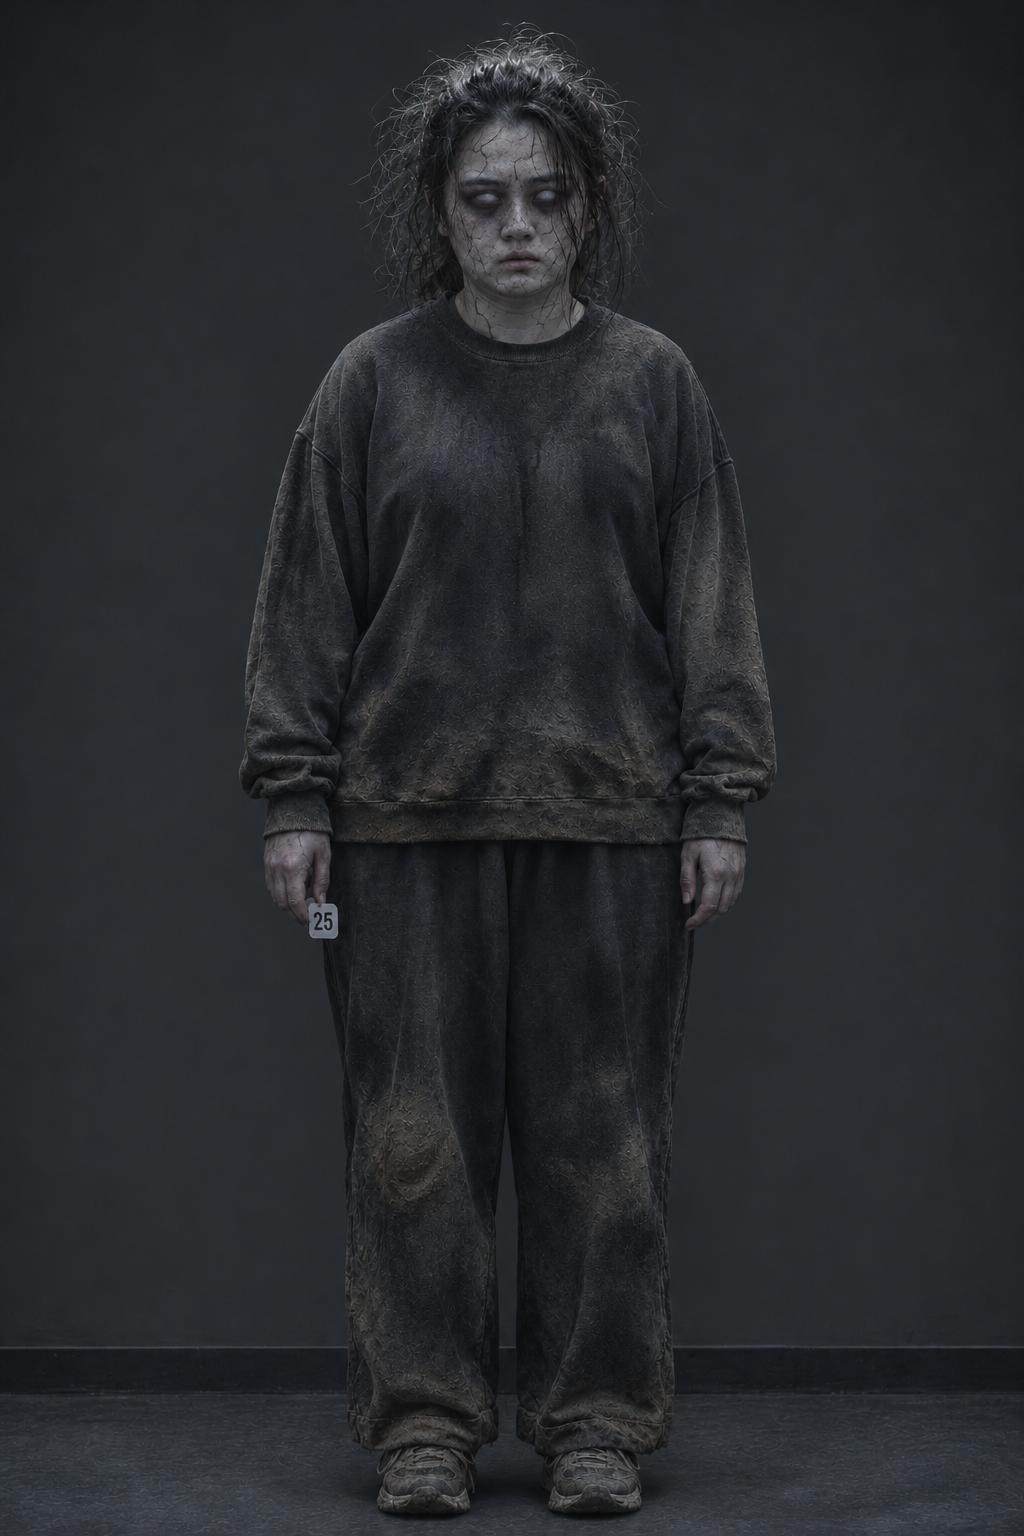
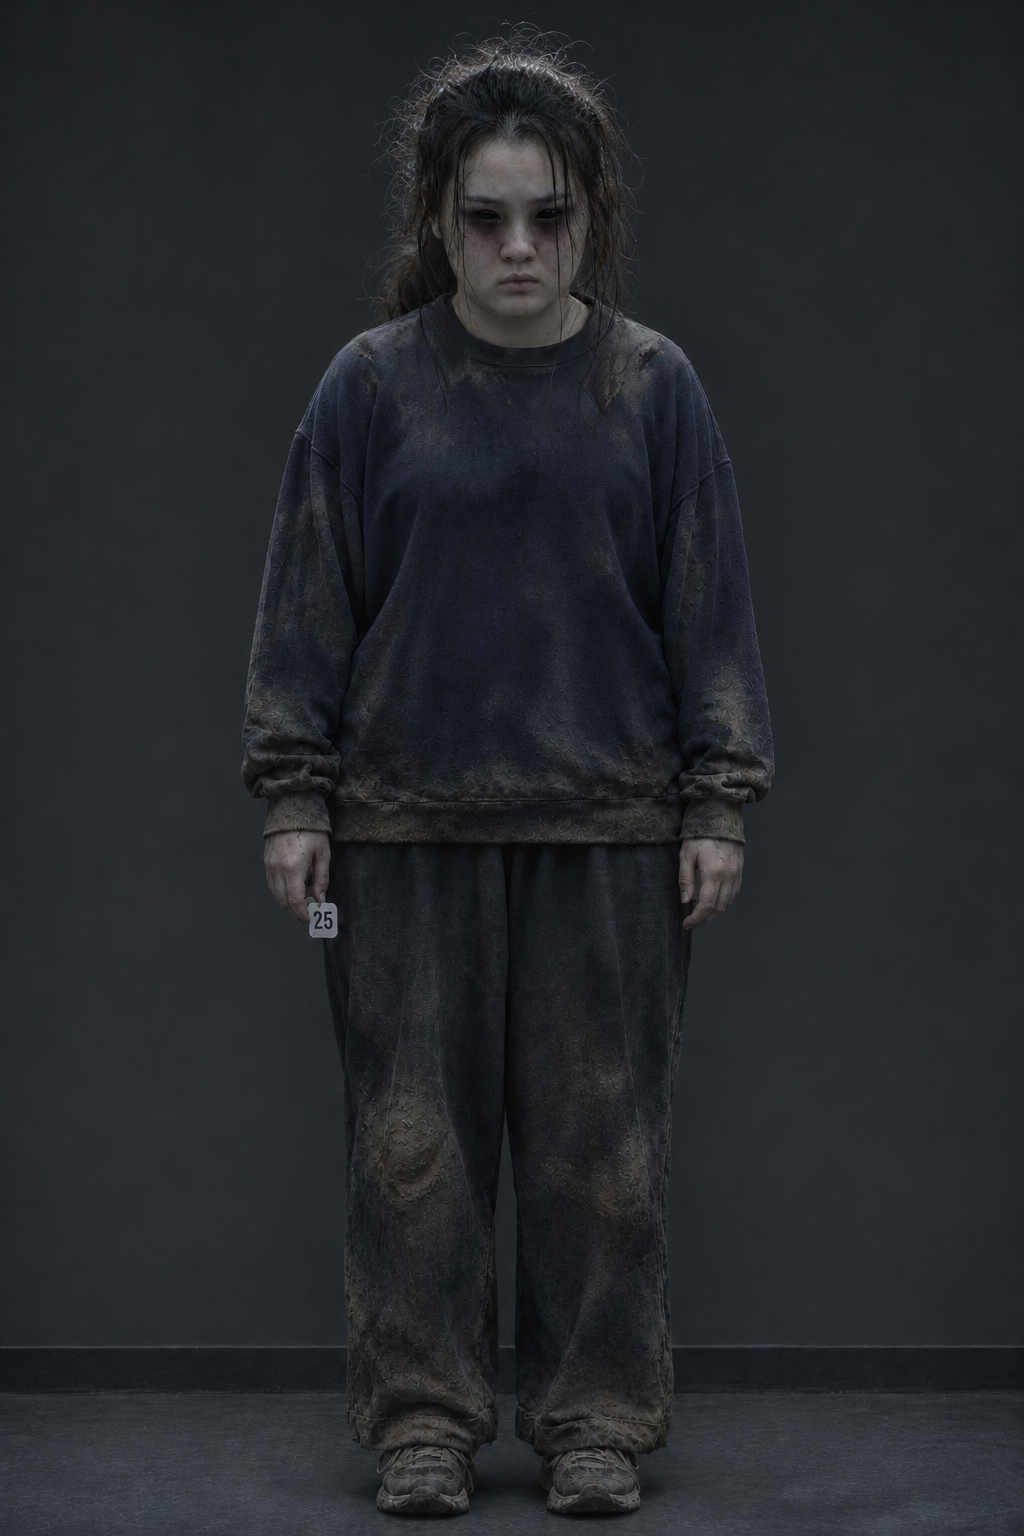
規格／影片素材：等號者三人幽靈全身改為黑眼無裂紋定稿
全身臉部比照新頭像改成全黑眼球、眼眶發黑、淡血管、亂髮，拿掉臉部裂紋；姿勢、號牌與髒汙衣著不變（三人皆選 02，微低頭往上盯）。

diff --git a/docs/10_製作規格/10-23_製作規格_影片素材設定.md b/docs/10_製作規格/10-23_製作規格_影片素材設定.md
@@ -143,7 +143,7 @@
 - **素材提示詞：**大廳塑膠等候椅上的三個年輕人（兩女一男，約十九到二十六歲），高矮胖瘦各不相同，穿的是自己平常的便服，像日常途中突然被帶進園區：左邊的女生是灰色針織開襟衫、白 T、淺色寬牛仔褲；中間的男生是暗紅帽 T、側邊白條紋的灰運動褲；右邊的女生是深藍大學 T、黑色寬褲。衣服乾淨但有一天下來的皺褶，色調低飽和。每人手裡都有一張塑膠號牌。第一人坐得最直；第二人縮肩、抿著嘴，嘴角被迫往兩側提起；第三人望著封住的出口，一手把號牌壓在膝上、一手扣住椅緣。異變只在頸部：衣領裡有一道細長的折角，頸影比肩膀多折一節，慢半拍才接回頭影。臉都沒有清楚五官（低垂、背光或模糊）。
 - **不要出現：**腐爛、傷口或血跡；三人長得一樣或穿同一套衣服；制服、戲服或破舊二手衣
 - **內部視覺基準：**[三人合照](../../assets/07_視聽與介面/assets/角色設定_等號者_合照_v1.png)是三人並坐、號牌與姿態的基準；左、中、右三人各有[左正面頭像](../../assets/07_視聽與介面/assets/角色設定_等號者_左_頭像_v1.png)與[左正面全身](../../assets/07_視聽與介面/assets/角色設定_等號者_左_全身_v1.png)、[中正面頭像](../../assets/07_視聽與介面/assets/角色設定_等號者_中_頭像_v1.png)與[中正面全身](../../assets/07_視聽與介面/assets/角色設定_等號者_中_全身_v1.png)、[右正面頭像](../../assets/07_視聽與介面/assets/角色設定_等號者_右_頭像_v1.png)與[右正面全身](../../assets/07_視聽與介面/assets/角色設定_等號者_右_全身_v1.png)，作為臉部與服裝基準。七張都是未異變的正常人形，只供內部對臉與定裝，不進遊戲畫面；遊戲內仍照本段不交清楚五官，頸部異變另依來源段製作。
-- **幽靈版內部視覺基準：**[左幽靈全身](../../assets/07_視聽與介面/assets/角色設定_等號者_左_幽靈_v1.png)與[左幽靈頭像](../../assets/07_視聽與介面/assets/角色設定_等號者_左_幽靈頭像_v1.png)、[中幽靈全身](../../assets/07_視聽與介面/assets/角色設定_等號者_中_幽靈_v1.png)與[中幽靈頭像](../../assets/07_視聽與介面/assets/角色設定_等號者_中_幽靈頭像_v1.png)、[右幽靈全身](../../assets/07_視聽與介面/assets/角色設定_等號者_右_幽靈_v1.png)與[右幽靈頭像](../../assets/07_視聽與介面/assets/角色設定_等號者_右_幽靈頭像_v1.png)以三人正面全身定裝為底，人、衣著與 28／27／25 號牌不變；全身是怨靈外觀的姿態、衣著髒汙與臉部碎裂基準，頭像是眼眶發黑、亂髮、衣著髒汙與皮膚質地的臉部細節基準；頭像版雙眼整顆全黑、沒有眼白，臉上不帶裂紋，黑色血管比全身更淡，全身仍維持下面的白眼與裂紋。膚色灰白偏青、衣色褪淡；臉上沒有表情，只剩空洞的死盯；雙眼全白、沒有瞳孔也不發光，眼眶周圍大片發黑、凹陷，黑紫色一路暈到顴骨與眉骨；黑色血管只在太陽穴、脖子與手背淡淡浮現，不搶眼；頭髮凌亂打結、微濕，碎髮散在額頭和臉頰上。臉上有乾裂的黑色細紋，像摔裂的陶瓷娃娃，裂縫是乾的、不流血：左邊的女生一道裂縫從髮際穿過眼眶劈到下巴，中間的男生整張臉布滿細密龜裂，右邊的女生從兩邊眼眶往外放射出網狀裂紋。衣服沾滿泥巴、灰塵和水漬，袖口、褲腳、膝蓋與鞋子最髒，像在水泥地上躺了很久。三人都一動也不動，像被看不見的東西吊著：左邊的女生踮著腳尖懸在地面上方，雙手垂直貼著身側，28 號牌別在毛衣胸前；中間的男生直挺挺站著，雙臂垂下，27 號牌捏在指間垂著；右邊的女生直挺挺站著，雙臂垂下，25 號牌捏在指間垂著。單次成像，沒有殘影、半透明或重影；脖子保持正常，不扭曲、不拉長，衣領內頸影慢半拍只在動畫演出中呈現。仍不出現腐爛、傷口或血跡。
+- **幽靈版內部視覺基準：**[左幽靈全身](../../assets/07_視聽與介面/assets/角色設定_等號者_左_幽靈_v1.png)與[左幽靈頭像](../../assets/07_視聽與介面/assets/角色設定_等號者_左_幽靈頭像_v1.png)、[中幽靈全身](../../assets/07_視聽與介面/assets/角色設定_等號者_中_幽靈_v1.png)與[中幽靈頭像](../../assets/07_視聽與介面/assets/角色設定_等號者_中_幽靈頭像_v1.png)、[右幽靈全身](../../assets/07_視聽與介面/assets/角色設定_等號者_右_幽靈_v1.png)與[右幽靈頭像](../../assets/07_視聽與介面/assets/角色設定_等號者_右_幽靈頭像_v1.png)以三人正面全身定裝為底，人、衣著與 28／27／25 號牌不變；全身是怨靈外觀的姿態與衣著髒汙基準，頭像是全黑眼球、眼眶發黑、亂髮與皮膚質地的臉部細節基準，兩者的臉一致。膚色灰白偏青、衣色褪淡；臉上沒有表情，只剩空洞的死盯；雙眼整顆全黑、沒有眼白也不反光，眼眶周圍大片發黑、凹陷，黑紫色一路暈到顴骨與眉骨；黑色血管只在太陽穴、脖子與手背淡淡浮現，不搶眼；頭髮凌亂打結、微濕，碎髮黏在額頭和臉頰上；三人微微低頭，黑眼從眉下往上盯著人。皮膚完整，臉上沒有裂紋。衣服沾滿泥巴、灰塵和水漬，袖口、褲腳、膝蓋與鞋子最髒，像在水泥地上躺了很久。三人都一動也不動，像被看不見的東西吊著：左邊的女生踮著腳尖懸在地面上方，雙手垂直貼著身側，28 號牌別在毛衣胸前；中間的男生直挺挺站著，雙臂垂下，27 號牌捏在指間垂著；右邊的女生直挺挺站著，雙臂垂下，25 號牌捏在指間垂著。單次成像，沒有殘影、半透明或重影；脖子保持正常，不扭曲、不拉長，衣領內頸影慢半拍只在動畫演出中呈現。仍不出現腐爛、傷口或血跡。
 - **來源：**[昆蟲化分配：E-01 等號者](../09_劇本/09-15_正式劇本_共用附錄.md#h-0412-140)
 
 <a id="va-receptionist"></a>
